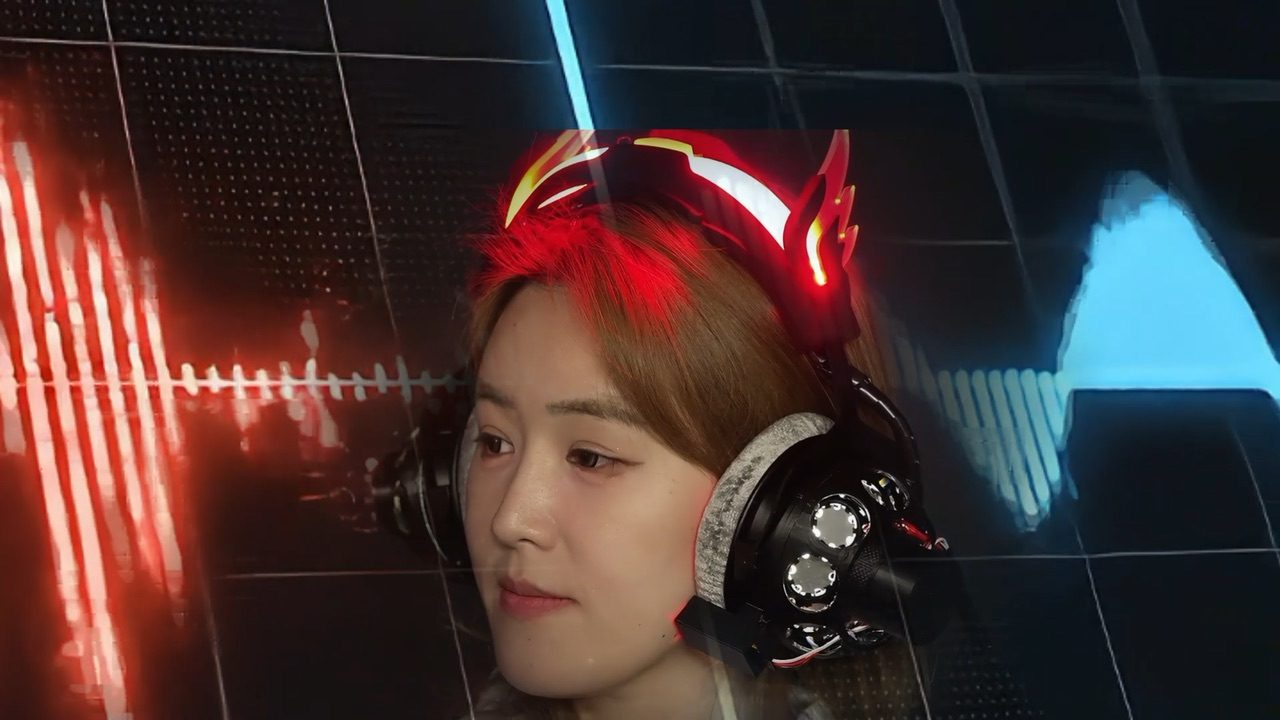
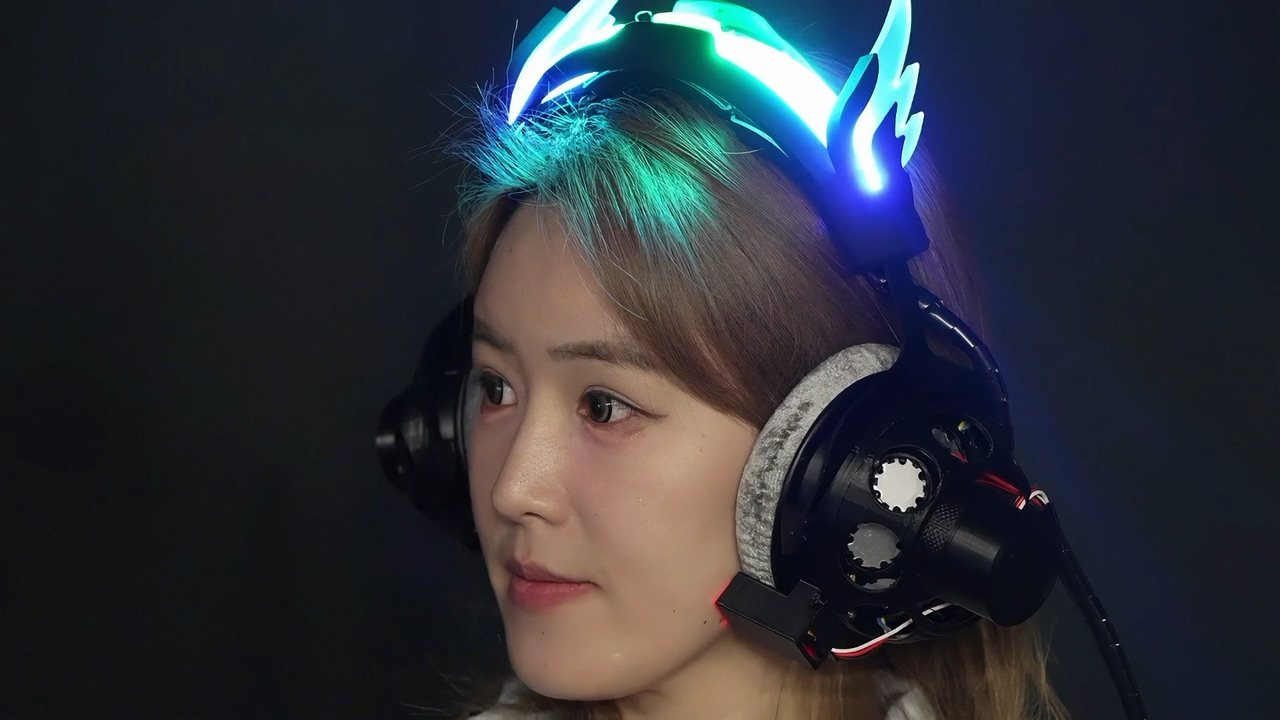
Highlight: use eyes-open MoHeat Evo frame

diff --git a/index.html b/index.html
@@ -137,7 +137,7 @@
     <section id="projects" class="block wrap">
       <div class="block-head"><span class="mono idx">02</span><h2>Highlight</h2><p>From lab to society.</p></div>
       <a class="feature" href="https://moheat-evo.github.io/" target="_blank" rel="noopener">
-        <div class="feature-media"><img src="assets/moheat-evo.jpg" alt="A woman wearing MoHeat Evo thermal headphones glowing red" width="1280" height="720"></div>
+        <div class="feature-media"><img src="assets/moheat-evo.jpg" alt="Jiayi Xu wearing MoHeat Evo thermal headphones glowing blue" width="1280" height="720"></div>
         <div class="feature-body">
           <span class="mono chip">PILLAR A · JOINT RESEARCH WITH SUNTORY</span>
           <h3>MoHeat Evo</h3>
